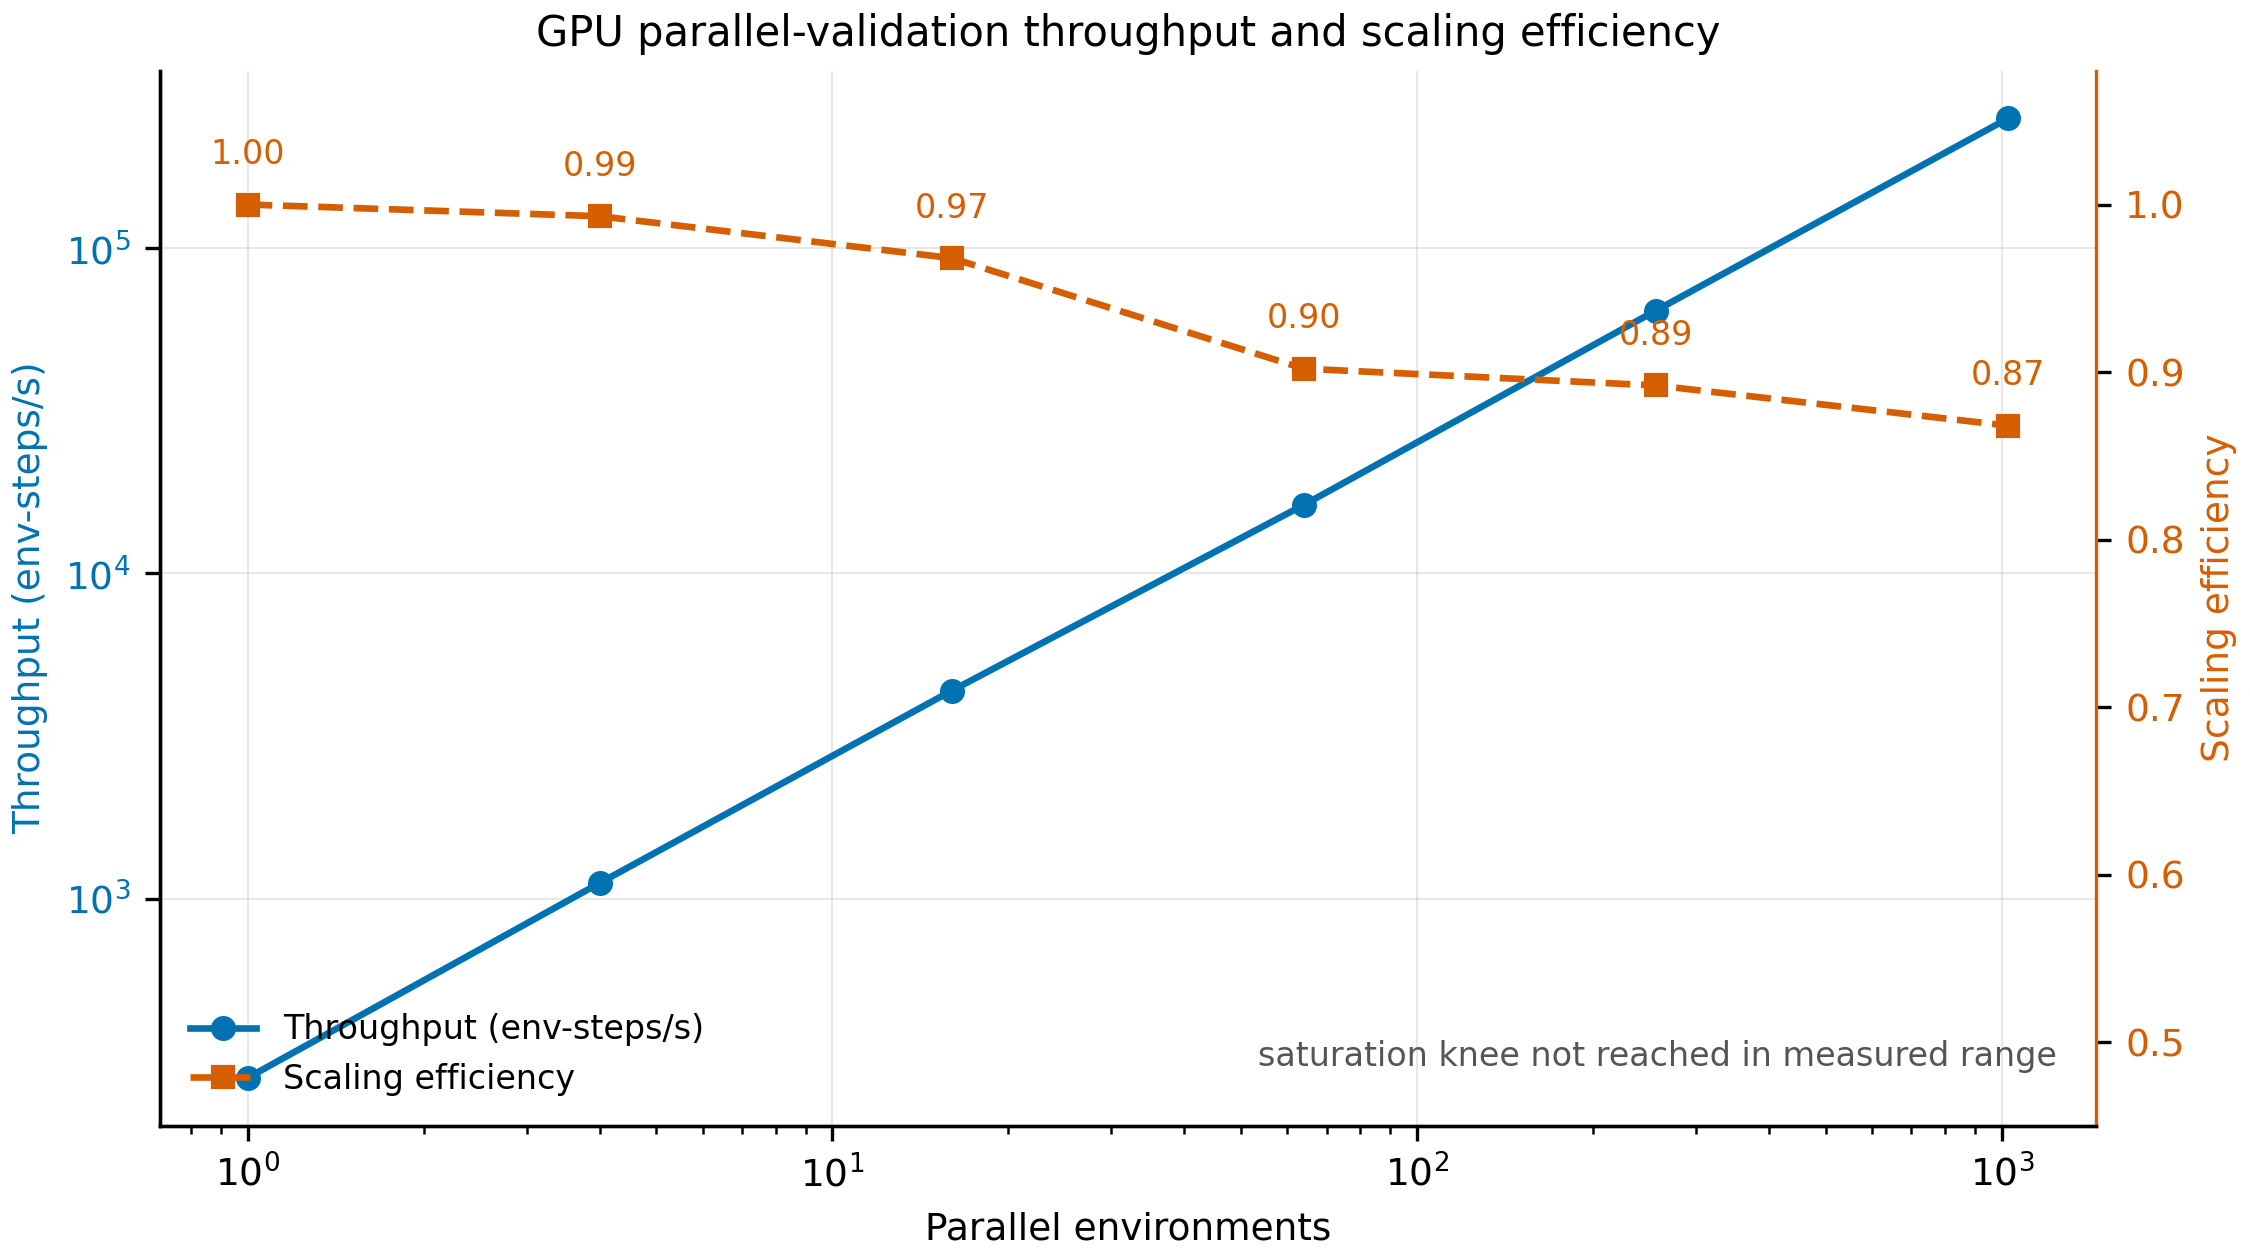
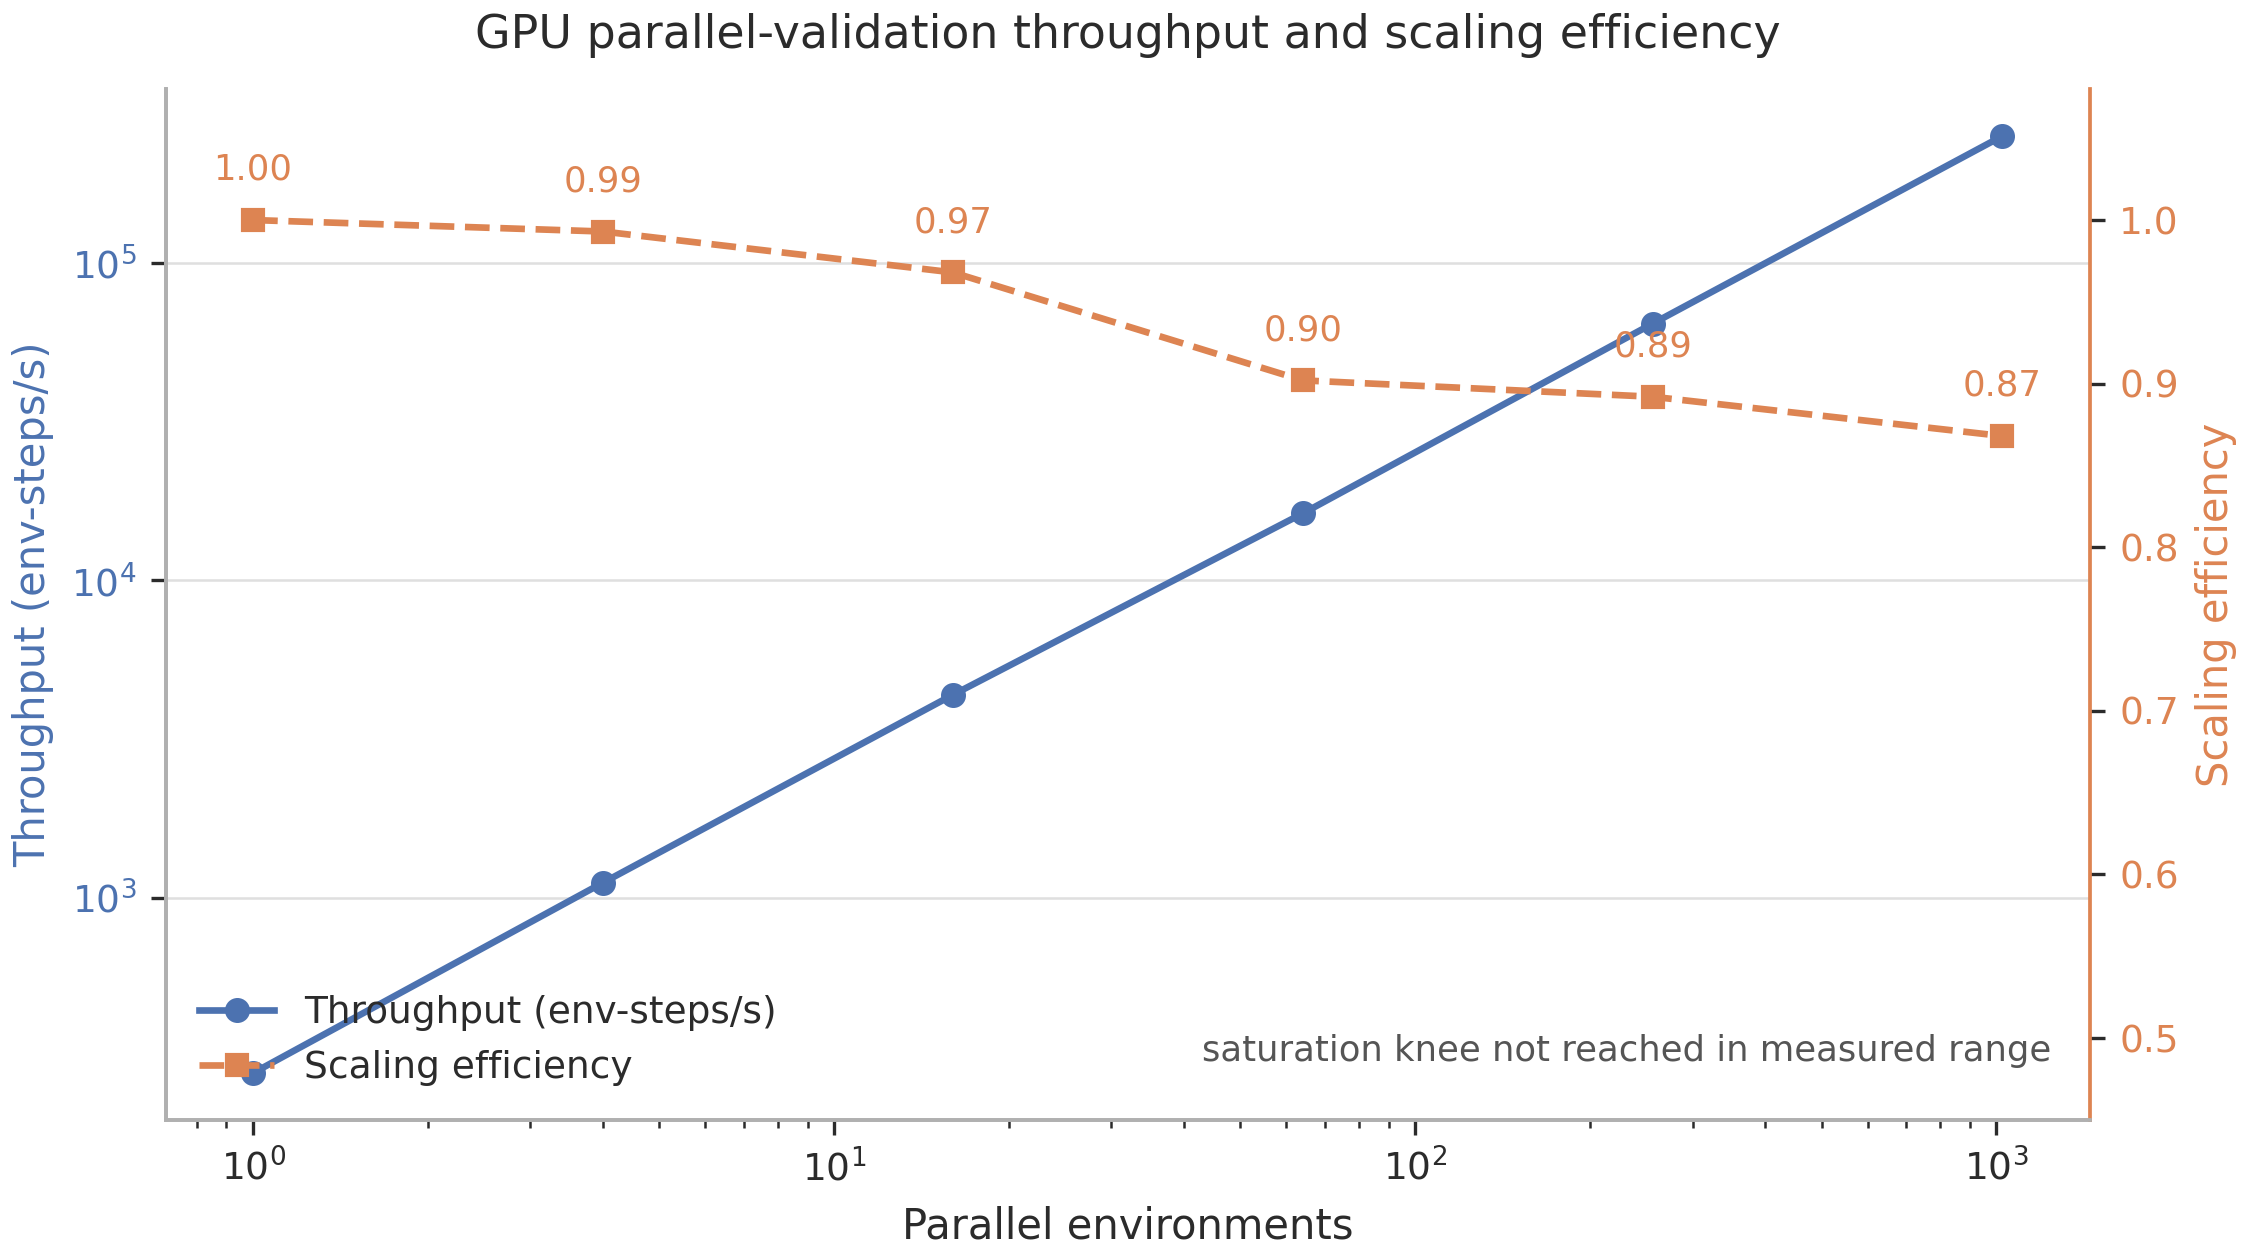
fix: muted camera-ready palette + prominent README GIFs
Charts (the first one was still candy-bright with a note slicing the bar):
- replace the saturated Okabe-Ito pink/teal with a muted seaborn-family palette
  (rose #c44e6c bad, green #55a868 good, blue #4c72b0 model, grey baseline,
  amber accent) — colorblind-anchored on blue/orange, disambiguated by position
- refined style: horizontal gridlines only (vertical = chartjunk on categorical
  axes), softer ink (#2b2b2b, no pure black), lighter spines, restrained fonts
- feasibility: drop the floating "σ=0" note that cut through the green bar; state
  n=3 / σ=0 as a clean axis caption below the ticks; tighter figure + xlim
- orchestrator: move the "derived score = mean" note to an axis caption (was
  grazing the bar bottoms); softer reference line
- fix stale "pink" wording in the E1 legend note -> "rose"

README "Watch it run": replace the cramped 2-column GIF table with full-width
centered <img> tags (reliable GitHub rendering), refresh captions to the new
amber/teal trajectory colors, and add a note pointing at docs/media/ + the MP4
fallback. Both GIFs are valid GIF89a and committed.

All figures regenerated from result JSONs (CPU). 253 pure tests pass; ruff clean;
README results section in sync.

diff --git a/physgate/viz/charts.py b/physgate/viz/charts.py
@@ -36,20 +36,26 @@ import numpy as np
 DPI = 300
 
 #: Shared font sizes (kept consistent across every figure)
-LABEL_FS = 8     # bar value labels
-TICK_FS = 8      # axis tick labels
-TITLE_FS = 10    # axes titles
-SUPTITLE_FS = 11
+LABEL_FS = 8.5   # bar value labels
+TICK_FS = 9      # axis tick labels
+TITLE_FS = 11    # axes titles
+SUPTITLE_FS = 12
 
-#: Colorblind-safe palette (Okabe-Ito). See the module docstring for semantics.
+#: Muted, low-saturation palette (seaborn-"muted" family) — camera-ready, not
+#: candy-bright, while keeping the blue/orange anchors colorblind-distinguishable
+#: and a clear good(green)/bad(rose) contrast disambiguated by position+labels.
 COLORS = {
-    "mock": "#999999",    # baseline
-    "claude": "#0072B2",  # model series
-    "llm": "#0072B2",     # alias of claude (PLANNER_LABELS maps both -> Real Claude)
-    "accent": "#D55E00",  # secondary / efficiency
-    "pre": "#CC79A7",     # bad / artifact
-    "post": "#009E73",    # correct / good
+    "mock": "#9aa0a6",    # neutral grey baseline
+    "claude": "#4c72b0",  # muted blue — model series
+    "llm": "#4c72b0",     # alias of claude (PLANNER_LABELS maps both -> Real Claude)
+    "accent": "#dd8452",  # muted amber — secondary / efficiency
+    "pre": "#c44e6c",     # muted rose — bad / artifact
+    "post": "#55a868",    # muted green — correct / good
 }
+
+#: Greys for text / structure (no pure black — softer, print-friendly).
+INK = "#2b2b2b"
+MUTED_INK = "#5f6368"
 
 PLANNER_LABELS = {"mock": "Mock planner", "claude": "Real Claude", "llm": "Real Claude"}
 
@@ -74,17 +80,34 @@ def _setup_style() -> None:
         {
             "figure.dpi": DPI,
             "savefig.dpi": DPI,
+            "figure.facecolor": "white",
             "figure.constrained_layout.use": True,
-            "font.size": 9,
+            "font.family": "sans-serif",
+            "font.sans-serif": ["DejaVu Sans"],
+            "font.size": 10,
+            "text.color": INK,
             "axes.titlesize": TITLE_FS,
-            "axes.labelsize": 9,
+            "axes.titlepad": 10,
+            "axes.labelsize": 10,
+            "axes.labelcolor": INK,
+            "axes.edgecolor": "#b0b0b0",
+            "axes.linewidth": 0.9,
             "axes.spines.top": False,
             "axes.spines.right": False,
+            # horizontal gridlines only — they help read bar heights; vertical
+            # ones are chartjunk on categorical axes
             "axes.grid": True,
-            "grid.alpha": 0.3,
-            "grid.linewidth": 0.5,
+            "axes.grid.axis": "y",
+            "axes.axisbelow": True,
+            "grid.color": "#d7d7d7",
+            "grid.alpha": 0.8,
+            "grid.linewidth": 0.6,
+            "xtick.color": INK,
+            "ytick.color": INK,
+            "xtick.labelsize": TICK_FS,
+            "ytick.labelsize": TICK_FS,
             "legend.frameon": False,
-            "legend.fontsize": LABEL_FS,
+            "legend.fontsize": 9,
         }
     )
 
@@ -162,11 +185,11 @@ def feasibility_chart(
     property of the broken low level (straight-line driver), not of the plans.
     """
     _setup_style()
-    fig, ax = plt.subplots(figsize=(7.0, 4.0), layout="constrained")
+    fig, ax = plt.subplots(figsize=(6.6, 4.2), layout="constrained")
 
     planners = [m["planner"] for m in data["measurements"]]
     x = np.arange(len(planners))
-    width = 0.36
+    width = 0.34
 
     pre_vals, pre_labels = [], []
     post_vals, post_labels = [], []
@@ -179,11 +202,11 @@ def feasibility_chart(
 
     bars_pre = ax.bar(
         x - width / 2, pre_vals, width,
-        label="Pre-rebuild (routing artifact)", color=COLORS["pre"], alpha=0.9,
+        label="Pre-rebuild (routing artifact)", color=COLORS["pre"],
     )
     bars_post = ax.bar(
         x + width / 2, post_vals, width,
-        label="Post-rebuild (A* navigation)", color=COLORS["post"], alpha=0.9,
+        label="Post-rebuild (A* navigation)", color=COLORS["post"],
     )
 
     for bars, vals, labels in (
@@ -194,21 +217,19 @@ def feasibility_chart(
             ax.annotate(
                 label,
                 (bar.get_x() + bar.get_width() / 2, bar.get_height()),
-                textcoords="offset points", xytext=(0, 3),
+                textcoords="offset points", xytext=(0, 4),
                 ha="center", va="bottom", fontsize=LABEL_FS,
-                fontweight="bold", clip_on=False,
+                fontweight="bold", color=INK, clip_on=False,
             )
 
     ax.set_xticks(x)
-    ax.set_xticklabels([PLANNER_LABELS.get(p, p) for p in planners], fontsize=TICK_FS)
+    ax.set_xticklabels([PLANNER_LABELS.get(p, p) for p in planners])
+    ax.set_xlim(-0.65, len(planners) - 0.35)
     ax.set_ylabel("Physically feasible plans (%)")
-    ax.set_ylim(0, 118)
-    # all 3 repeat runs are identical (sigma = 0): say so rather than fake error bars
-    ax.text(
-        0.5, 0.04, "post-rebuild: 100% feasible across n=3 runs (σ = 0)",
-        transform=ax.transAxes, ha="center", va="bottom",
-        fontsize=LABEL_FS, color="#444444",
-    )
+    ax.set_ylim(0, 116)
+    # n=3 runs, σ=0: stated as a clean axis caption (never over the bars)
+    ax.set_xlabel("post-rebuild feasibility held at 100% across n = 3 repeat runs (σ = 0)",
+                  fontsize=LABEL_FS, color=MUTED_INK, labelpad=8)
     ax.set_title("Plan feasibility before vs after the navigation rebuild")
     handles, labels = ax.get_legend_handles_labels()
     fig.legend(handles, labels, loc="outside upper center", ncol=2, frameon=False)
@@ -266,13 +287,12 @@ def orchestrator_chart(
     ax.set_xticklabels([lbl for _, lbl in METRIC_LABELS], fontsize=TICK_FS)
     ax.set_ylabel("Score")
     ax.set_ylim(0, 1.12)
-    ax.axhline(1.0, color="black", linewidth=0.6, linestyle=":", alpha=0.5)
-    note = (
-        "orchestrator score = unweighted mean of the 5 metrics at left"
-        + ("   ·   error bars = sample SD (σ = 0 across n=3 runs)" if stats and sd_zero else "")
+    ax.axhline(1.0, color=MUTED_INK, linewidth=0.6, linestyle=":", alpha=0.5)
+    sd_note = "   ·   error bars = sample SD (σ = 0 across n = 3 runs)" if stats and sd_zero else ""
+    ax.set_xlabel(
+        "rightmost bar = orchestrator score (unweighted mean of the 5 metrics)" + sd_note,
+        fontsize=LABEL_FS, color=MUTED_INK, labelpad=8,
     )
-    ax.text(0.5, 0.02, note, transform=ax.transAxes, ha="center", va="bottom",
-            fontsize=LABEL_FS, color="#444444")
     ax.set_title(
         "Agent-orchestrator quality: 5 metrics + derived score\n"
         "(7-scenario corpus: ordering / preconditions / recovery / multi-step / infeasible)"
@@ -429,9 +449,9 @@ def ablation_chart(data: dict, output: str | Path) -> Path:
         "rejected before wasting execution (higher is better)"
     )
     ax_reject.text(
-        0.02, 0.96, "green = task rejected (good)\npink = falsely executed (bad)",
+        0.02, 0.96, "green = task rejected (good)\nrose = falsely executed (bad)",
         transform=ax_reject.transAxes, ha="left", va="top",
-        fontsize=LABEL_FS, color="#444444",
+        fontsize=LABEL_FS, color=MUTED_INK,
     )
 
     fig.suptitle(
@@ -477,7 +497,7 @@ def gate_classifier_chart(data: dict, output: str | Path) -> Path:
         ax_recall.text(
             0.02, 0.97, "FPR = 0.00 across all layers\n(no valid plan ever rejected)",
             transform=ax_recall.transAxes, ha="left", va="top",
-            fontsize=7.5, color="#444444",
+            fontsize=7.5, color=MUTED_INK,
         )
 
     ax_recall.set_xticks(x)

diff --git a/README.md b/README.md
@@ -96,9 +96,11 @@ architecture-correction record [`docs/design/REBUILD.md`](docs/design/REBUILD.md
 
 ## Watch it run — real robotic control in Isaac Sim
 
-| Isaac Sim camera — policy-validation rollout | Top-down — planned A\* route vs walked trail |
-|---|---|
-| ![Go2 walking a validated fetch-and-place plan in Isaac Sim](docs/media/isaac_rollout.gif) | ![Planned route (yellow) vs the trail the robot actually walked (green)](docs/media/topdown_trajectory.gif) |
+**Isaac Sim camera — policy-validation rollout** (Go2 rsl_rl walking policy, PhysX):
+
+<p align="center">
+  <img src="docs/media/isaac_rollout.gif" alt="Go2 walking a validated fetch-and-place plan in Isaac Sim" width="640">
+</p>
 
 A trained Go2 locomotion policy (rsl_rl) walks the A\*-planned route around the
 pillar (red), picks the fallen box, carries it, and places it on the shelf — captured
@@ -108,10 +110,20 @@ The carried box rides overhead because the MVP carry is explicit bookkeeping, no
 gripper physics (see `DECISIONS.md` D-018); what *is* physics: walking, obstacle
 clearance, and the momentum-carrying release at placement.
 
-Right: the planned route (yellow) and the robot's actually-walked trail (green) —
+**Top-down trajectory — planned A\* route vs the trail the robot actually walked:**
+
+<p align="center">
+  <img src="docs/media/topdown_trajectory.gif" alt="Planned A* route (amber) vs the trail the robot actually walked (teal)" width="680">
+</p>
+
+The planned route (amber dashed) and the robot's actually-walked trail (teal) —
 recorded from simulation state, with automated plausibility checks (trail never
 enters the obstacle footprint; box ends at shelf height; speed stays in the
 locomotion envelope). Raw data: [`docs/media/rollout_trajectory.json`](docs/media/rollout_trajectory.json).
+
+> Both clips are committed under [`docs/media/`](docs/media/) (`isaac_rollout.gif`,
+> `topdown_trajectory.gif`) and also available as MP4 (`isaac_rollout.mp4`).
+> If a GIF does not animate in your viewer, open it directly from the repo.
 
 ## Status
 
